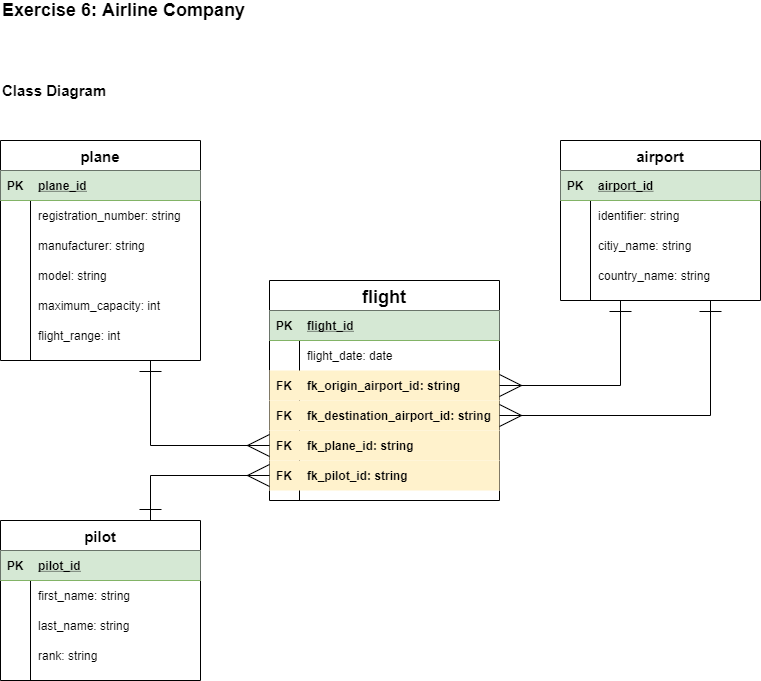
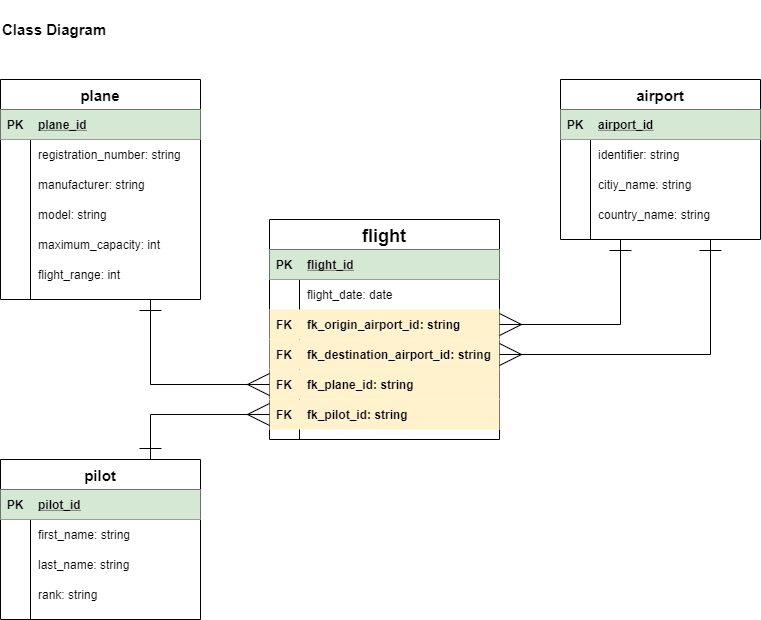
Corrected diagram, adapted readme

diff --git a/README.md b/README.md
@@ -1,6 +1,6 @@
 # CF-BE1-DB
 
-## 1. Concept
+## 1. Airline Concept
 
 ![Airline Class Diagram](concept/airline-class-diagram.png)
 
